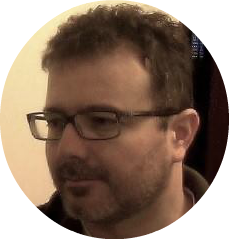
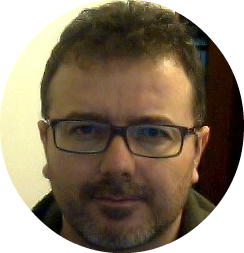
Atualização foto profile e texto sobre.

diff --git a/portfolio/core/templates/index.html b/portfolio/core/templates/index.html
@@ -13,7 +13,7 @@
                     <img class="img-responsive" src="{% static 'img/profile.png' %}" alt="">
 
                     <div class="intro-text">
-                        <span class="name">Engenheiro de Software</span>
+                        <span class="name">Programação Eficaz</span>
                         <hr class="star-light">
                         <span class="skills">Engenheiro de Software - Programador</span>
                     </div>
@@ -107,17 +107,19 @@
             </div>
             <div class="row">
                 <div class="col-lg-4 col-lg-offset-2">
-                    <p> Apaixonado por desenvolvimento de software! Utiliza Python, Django,
-                        Software Livre e Métodos Ágeis como ferramentas para alcançar a solução
-                        de problemas diversos.
-                        Atua também nas áreas de Tecnologia da Informação e planeamento,
-                        avaliando e executando o desenvolvimento de novos programas,
-                        estabelecendo padrões e métodos para a organização e
-                        identificando soluções de problemas técnicos e/ou administrativos.</p>
+                    <p> Apaixonado por desenvolvimento de software!</p>
+
+                    <p>Atua nas áreas de Tecnologia da Informação avaliando e executando o
+                        desenvolvimento de novos programas, estabelecendo padrões e métodos
+                        para a organização utilizando Software Livre e Métodos Ágeis como
+                        ferramentas para a identificação de problemas técnicos e/ou administrativos,
+                        visando com isto alcançar soluções eficazes.</p>
                 </div>
                 <div class="col-lg-4">
                     <p>Experiência profissional em Python e Django.</p>
-                    <p>Conhecimentos acadêmicos nas linguagens de programação C#, Java, ASP .NET MVC, PHP.</p>
+
+                    <p>Conhecimento e experiências acadêmicas nas linguagens de programação C#, Java, ASP .NET MVC,
+                        PHP.</p>
                     <p>SGBDs - PostgreSQL, MySQL, SQL Server, FireBird.</p>
                     <p>Administração de redes de computadores.</p>
                 </div>
